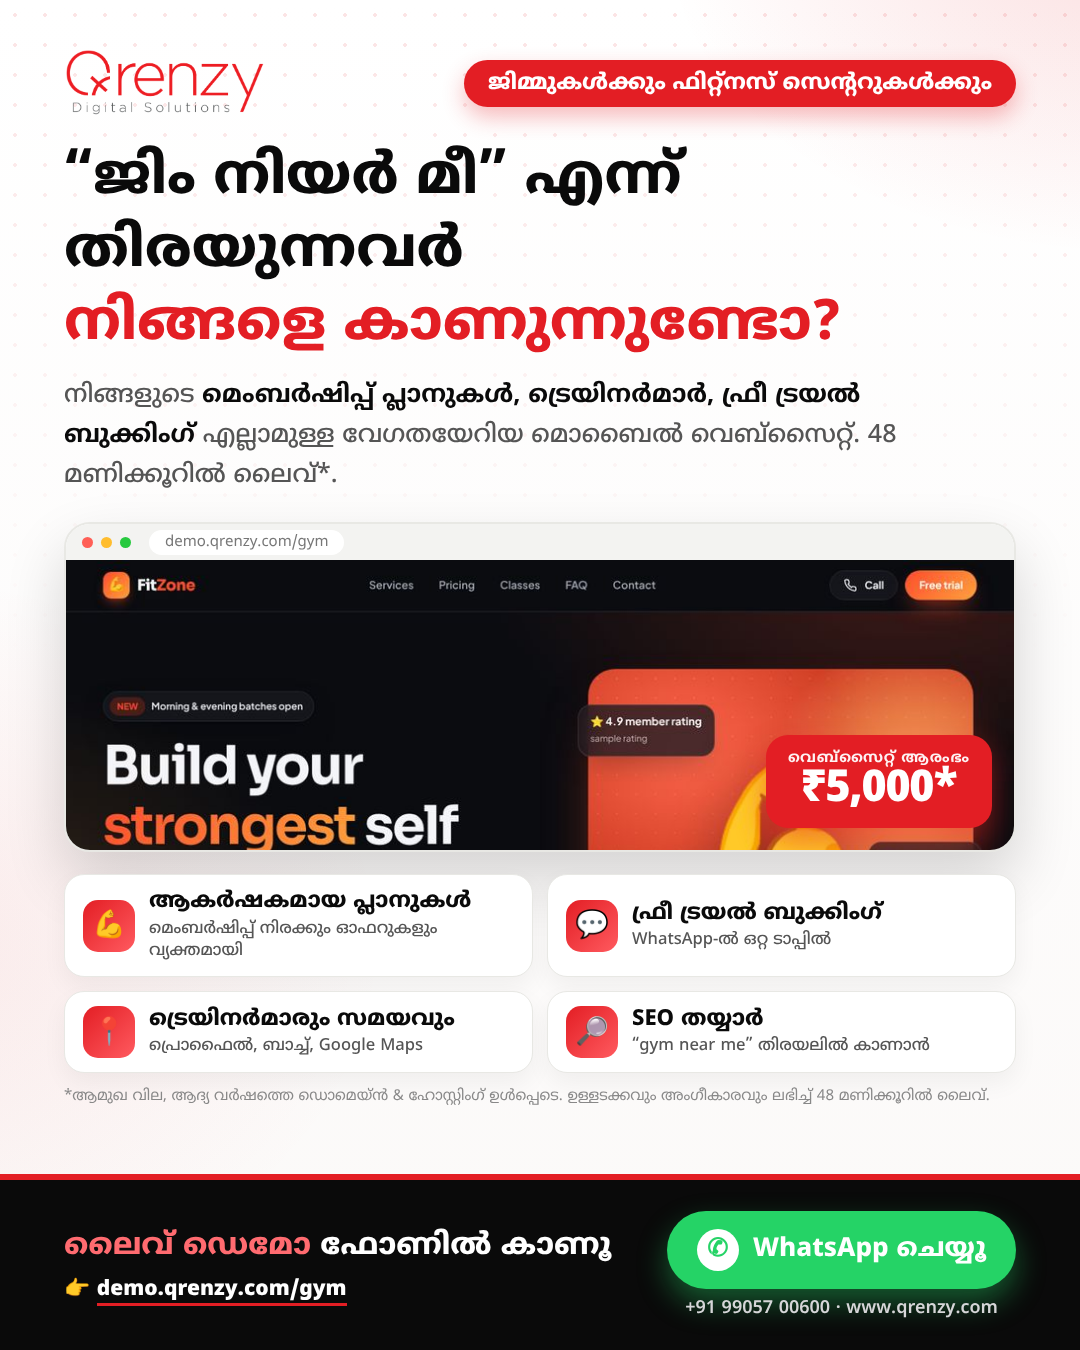
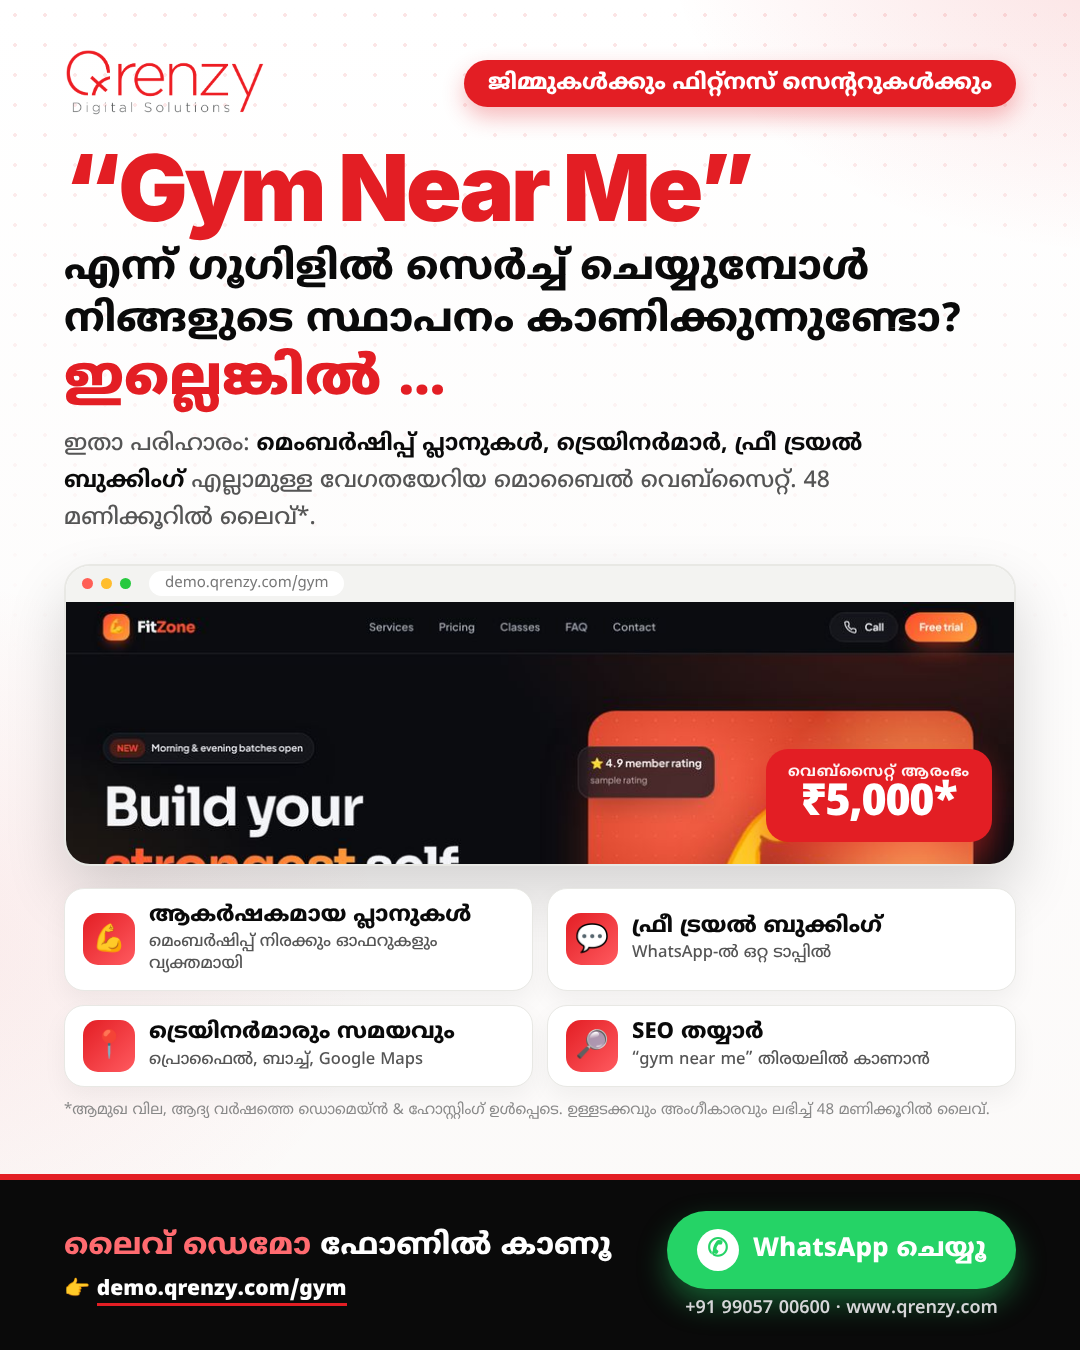
Malayalam gym poster: new hook (Gym Near Me ... ഇല്ലെങ്കിൽ)
Claude-Session: https://claude.ai/code/session_01Ht9yWPapt7eMStkDeuiZnS

Changed region(s): [[0.0611, 0.0933, 0.9472, 0.7156], [0.0611, 0.7467, 0.9167, 0.84]]

diff --git a/poster/poster-gym-ml.html b/poster/poster-gym-ml.html
@@ -10,15 +10,15 @@ html,body{width:1080px;height:1350px;background:#fff}
 .z{position:relative;z-index:2}
 .top{display:flex;justify-content:space-between;align-items:center}.top img{height:70px}
 .tag{background:var(--red);color:#fff;font-weight:800;font-size:22px;padding:10px 24px;border-radius:40px;letter-spacing:0;box-shadow:0 10px 22px rgba(227,30,36,.3)}
-h1{font-size:56px;line-height:1.3;font-weight:800;letter-spacing:0;margin-top:26px}
+h1{font-size:54px;line-height:1.2;font-weight:900;letter-spacing:0;margin-top:22px}h1 .en{display:block;font-family:-apple-system,BlinkMacSystemFont,'Segoe UI',Roboto,Helvetica,Arial,sans-serif;font-size:92px;font-weight:900;letter-spacing:-.035em;line-height:1.05;color:var(--red)}h1 .q{display:block;font-size:40px;font-weight:800;line-height:1.3;margin:6px 0 2px}
 h1 em{font-style:normal;color:var(--red)}
-.sub{font-size:25px;color:var(--grey);margin-top:14px;line-height:1.6;max-width:880px;font-weight:500}
+.sub{font-size:23px;color:var(--grey);margin-top:14px;line-height:1.6;max-width:880px;font-weight:500}
 .sub b{color:var(--ink)}
 .shot{margin-top:26px;background:#fff;border:2px solid var(--line);border-radius:26px;overflow:hidden;box-shadow:0 28px 60px rgba(0,0,0,.16);position:relative}
 .bar{height:36px;background:#f3f3f1;display:flex;align-items:center;gap:8px;padding:0 16px;font-size:15px;color:#777}
 .bar i{width:11px;height:11px;border-radius:50%;background:#ff5f56}.bar i:nth-child(2){background:#ffbd2e}.bar i:nth-child(3){background:#27c93f}
 .bar span{margin-left:10px;background:#fff;border-radius:99px;padding:3px 16px}
-.shot img{display:block;width:100%;height:290px;object-fit:cover;object-position:top}
+.shot img{display:block;width:100%;height:262px;object-fit:cover;object-position:top}
 .badge{position:absolute;right:22px;bottom:22px;background:var(--red);color:#fff;border-radius:22px;padding:14px 22px;box-shadow:0 14px 30px rgba(227,30,36,.45);text-align:center}
 .badge small{display:block;font-size:15px;font-weight:700;opacity:.95;letter-spacing:.06em}.badge b{font-size:44px;font-weight:900;line-height:1.05;letter-spacing:-.03em}
 .grid{display:grid;grid-template-columns:1fr 1fr;gap:14px;margin-top:22px}
@@ -35,8 +35,8 @@ h1 em{font-style:normal;color:var(--red)}
 .ph{font-size:18px;font-weight:600;color:#d6d6d8;margin-top:8px;text-align:center}
 </style></head><body><div class="p"><div class="dots"></div>
 <div class="z top"><img src="logo.png" alt="Qrenzy Digital Solutions"><div class="tag">ജിമ്മുകൾക്കും ഫിറ്റ്നസ് സെന്ററുകൾക്കും</div></div>
-<div class="z"><h1>“ജിം നിയർ മീ” എന്ന് തിരയുന്നവർ<br><em>നിങ്ങളെ കാണുന്നുണ്ടോ?</em></h1>
-<div class="sub">നിങ്ങളുടെ <b>മെംബർഷിപ്പ് പ്ലാനുകൾ, ട്രെയിനർമാർ, ഫ്രീ ട്രയൽ ബുക്കിംഗ്</b> എല്ലാമുള്ള വേഗതയേറിയ മൊബൈൽ വെബ്സൈറ്റ്. 48 മണിക്കൂറിൽ ലൈവ്*.</div></div>
+<div class="z"><h1><span class="en">“Gym Near Me”</span><span class="q">എന്ന് ഗൂഗിളിൽ സെർച്ച് ചെയ്യുമ്പോൾ<br>നിങ്ങളുടെ സ്ഥാപനം കാണിക്കുന്നുണ്ടോ?</span><em>ഇല്ലെങ്കിൽ …</em></h1>
+<div class="sub">ഇതാ പരിഹാരം: <b>മെംബർഷിപ്പ് പ്ലാനുകൾ, ട്രെയിനർമാർ, ഫ്രീ ട്രയൽ ബുക്കിംഗ്</b> എല്ലാമുള്ള വേഗതയേറിയ മൊബൈൽ വെബ്സൈറ്റ്. 48 മണിക്കൂറിൽ ലൈവ്*.</div></div>
 <div class="z shot"><div class="bar"><i></i><i></i><i></i><span>demo.qrenzy.com/gym</span></div><img src="gym-demo.jpg" alt="Gym website demo">
 <div class="badge"><small>വെബ്സൈറ്റ് ആരംഭം</small><b>₹5,000*</b></div></div>
 <div class="z grid">
